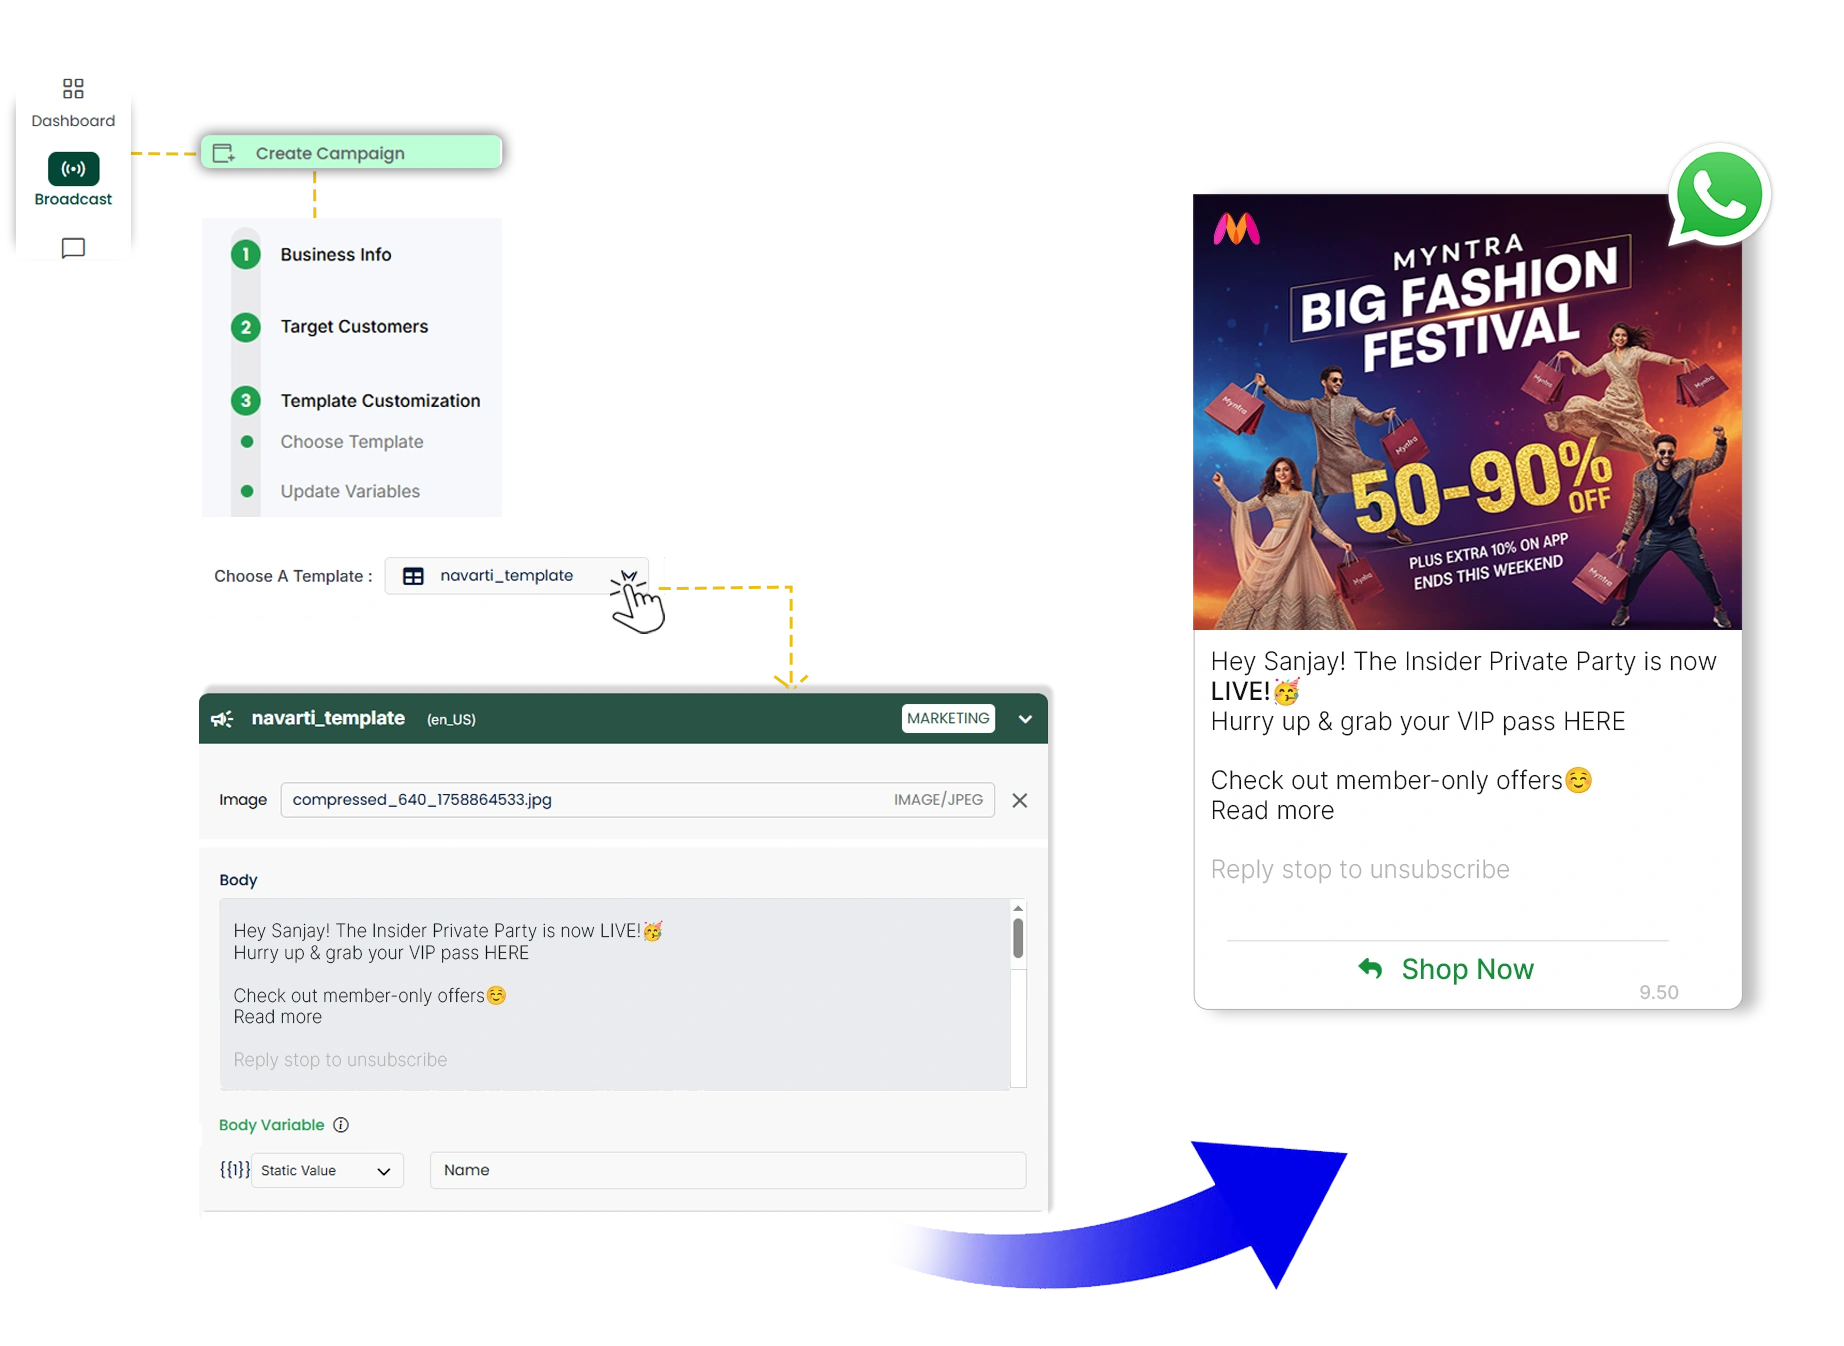
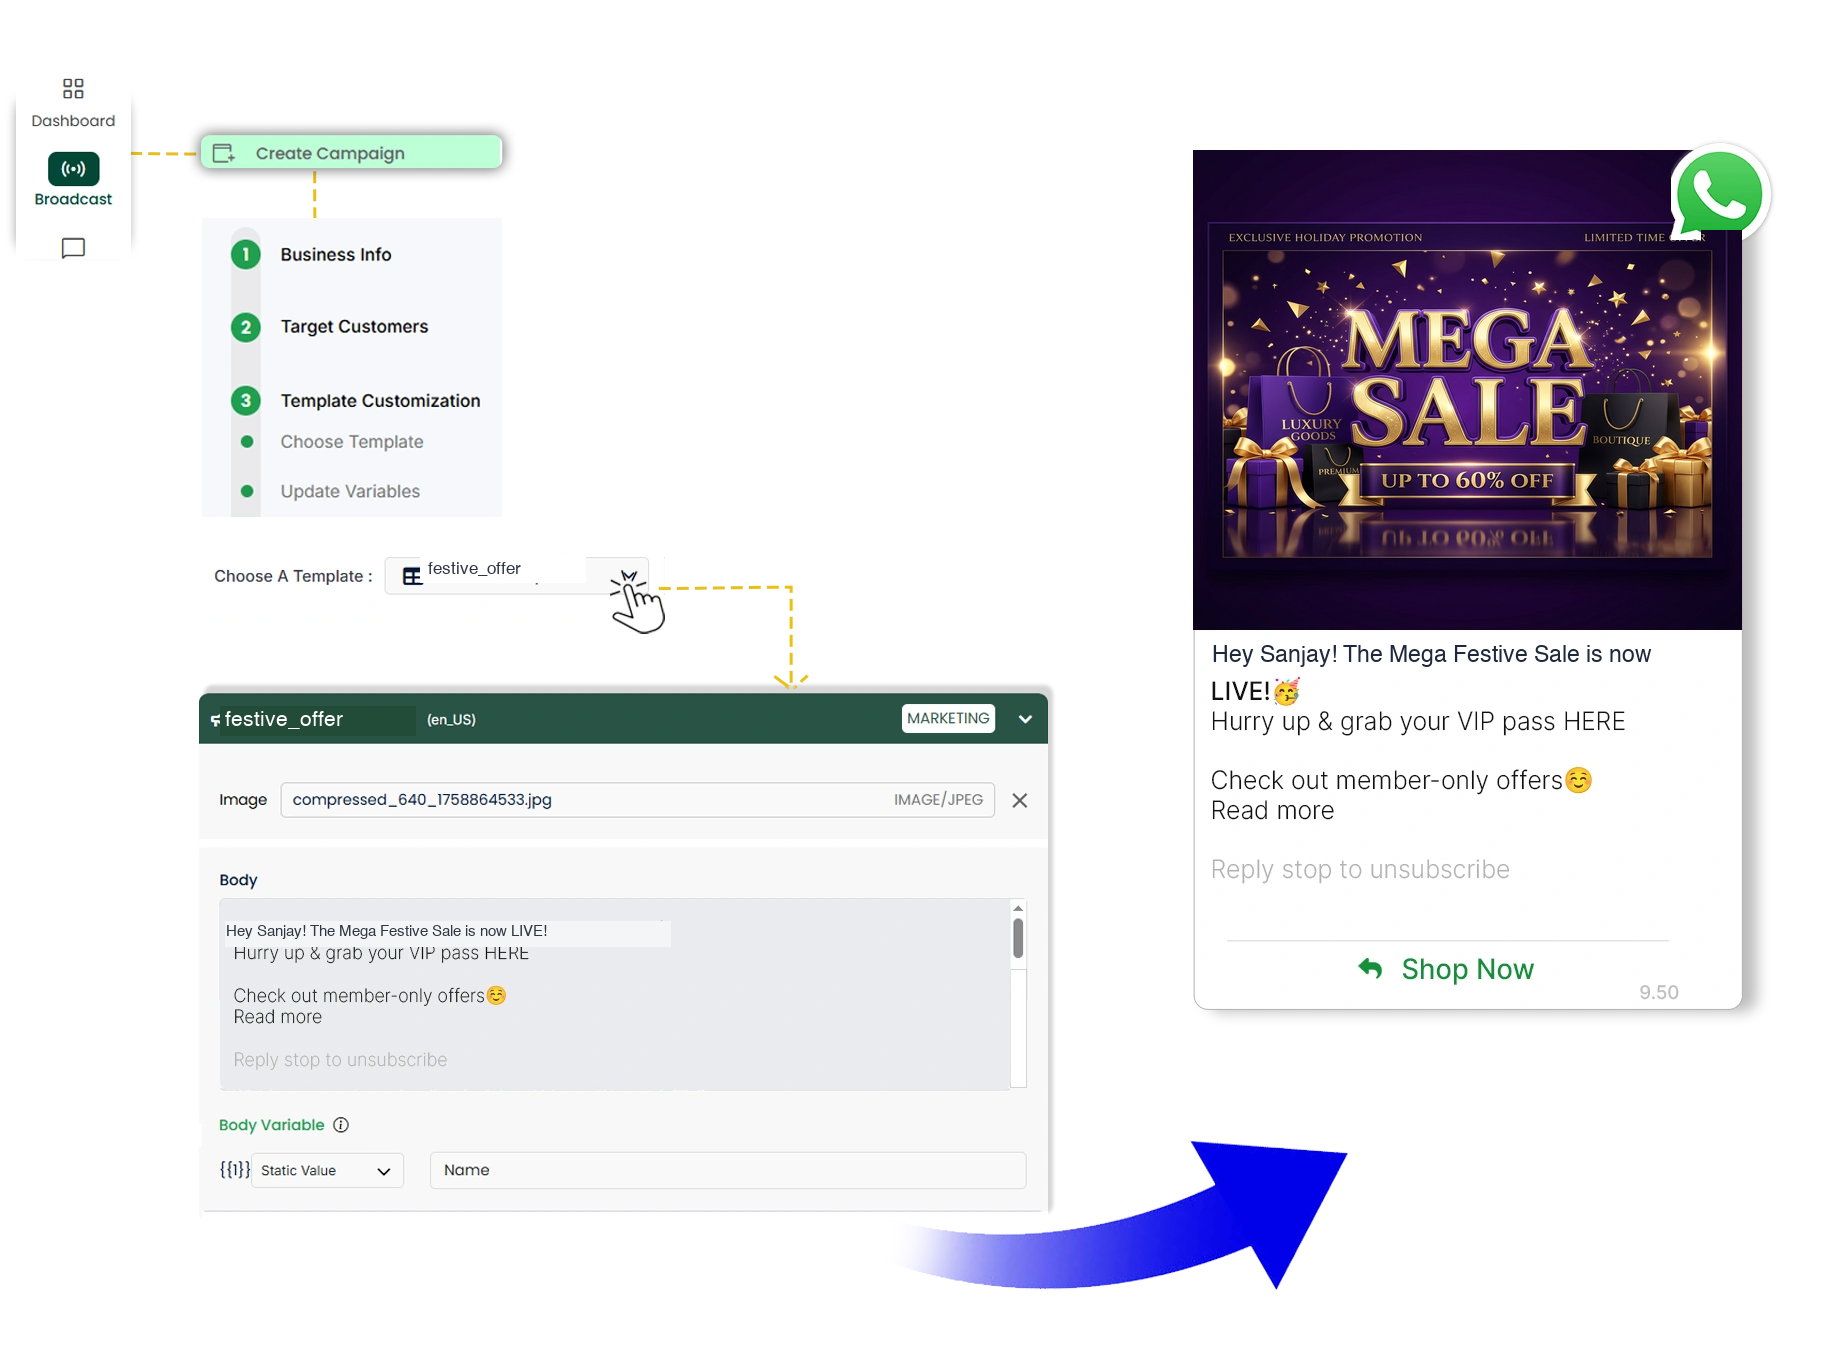
feat(broadcast): rebrand broadcast hero, templates, and copy with original HelloBotz assets

diff --git a/products/broadcast/index.php b/products/broadcast/index.php
@@ -3,11 +3,11 @@ $basePath = '../../';
 $bp = '../../';
 require_once __DIR__ . '/../../config/cms.php';
 
-$pageTitle = 'Send Bulk WhatsApp Broadcasts | Official Meta API | HelloBotz's;
+$pageTitle = 'Send Bulk WhatsApp Broadcasts | Official Meta API | HelloBotz';
 $pageDescription = 'Broadcast personalized offers, updates, and announcements in bulk to unlimited contacts on WhatsApp with zero ban risk using HelloBotz.';
 $canonicalUrl = 'https://hellobotz.com/products/broadcast/';
 $ogImage = 'https://hellobotz.com/assets/images/hellobots/whatsapp-broadcasting/whatsapp-broadcasting.png';
-$ogTitle = 'Send Bulk WhatsApp Broadcasts | Official Meta API | HelloBotz's;
+$ogTitle = 'Send Bulk WhatsApp Broadcasts | Official Meta API | HelloBotz';
 $ogDescription = 'Broadcast personalized offers, updates, and announcements in bulk to unlimited contacts on WhatsApp with zero ban risk using HelloBotz.';
 
 include __DIR__ . '/../../includes/header.php';
@@ -248,8 +248,8 @@ include __DIR__ . '/../../includes/header.php';
 
         <!-- End Breadcrumbs -->
 
-        <h1 class="hero-title">Send Bulk Broadcast to Your Customers on WhatsApp Using Official Business API</h1>
-        <p class="hero-text"> Broadcast personalized updates, offers, and announcements instantly to thousands of contacts on WhatsApp with just one click using offcial business API.</p>
+        <h1 class="hero-title">Send Bulk WhatsApp Broadcasts at Scale with Official Meta API</h1>
+        <p class="hero-text">Broadcast high-converting personalized campaigns, product launches, and automated alerts to thousands of opted-in customers with guaranteed instant delivery and zero ban risk.</p>
         <div class="product-hero-actions" style="display:flex;flex-wrap:wrap;gap:12px;align-items:center;margin-top:1.5rem;">
           <a href="https://app.hellobotz.com/auth/register" class="btn text-white cta-button m-0" style="background:#4f46e5;color:#ffffff;font-weight:700;padding:12px 24px;border-radius:10px;text-decoration:none;display:inline-flex;align-items:center;gap:6px;box-shadow:0 4px 14px rgba(79,70,229,0.35);">
             Start Free Trial →
@@ -290,10 +290,8 @@ include __DIR__ . '/../../includes/header.php';
       <!-- Text -->
       <div class="col-lg-6 order-1 order-lg-2">
         <div class="api-content">
-          <h3> Unlimited Contacts
-          </h3>
-          <p class="mb-3">Send messages to an unlimited number of audiences without any limitations. Reach hundreds or
-            thousands of clients simultaneously, while saving time and maximizing your campaign reach.
+          <h3>Unlimited Audience Reach</h3>
+          <p class="mb-3">Broadcast tailored campaigns to thousands of contacts simultaneously without restrictive limits. Expand your audience segments and save hours while preserving pristine phone number reputation.
           </p>
         </div>
         <a id="whatsapp-enquiryy"
@@ -314,11 +312,8 @@ include __DIR__ . '/../../includes/header.php';
       <!-- Text -->
       <div class="col-lg-6 order-1 order-lg-1">
         <div class="api-content">
-          <h3>Pre-Approved Message Template
-          </h3>
-          <p class="mb-3">Utilize your pre-approved templates to make sure your broadcast is delivered in real-time and
-            complies with WhatsApp’s policies. You can even personalize them using variables for different campaigns,
-            making the conversation more instant and stable.
+          <h3>Meta-Approved Dynamic Templates</h3>
+          <p class="mb-3">Deploy pre-approved WhatsApp message templates that comply with Meta business policies. Seamlessly inject recipient variables, rich media, and quick-reply action buttons for instant conversions.
           </p>
         </div>
         <a id="whatsapp-enquiryy"
@@ -339,11 +334,8 @@ include __DIR__ . '/../../includes/header.php';
       <!-- Text -->
       <div class="col-lg-6 order-1 order-lg-2">
         <div class="api-content">
-          <h3> Message Personalization
-          </h3>
-          <p class="mb-3">Include dynamic variables like customer name, locations, or buying history to make every
-            broadcast unique. Customization improves engagement and builds customer relationships, even in large-scale
-            campaigns.
+          <h3>1:1 Dynamic Personalization</h3>
+          <p class="mb-3">Deliver tailored messages by dynamically inserting customer names, personalized discount codes, order values, and account details to drive maximum engagement, trust, and higher conversions.
           </p>
         </div>
         <a id="whatsapp-enquiryy"
@@ -364,10 +356,8 @@ include __DIR__ . '/../../includes/header.php';
       <!-- Text -->
       <div class="col-lg-6 order-1 order-lg-1">
         <div class="api-content">
-          <h3>Interactive Messages
-          </h3>
-          <p class="mb-3">Offer a rich experience by sending messages that include images, videos, and interactive
-            buttons. Such features make your campaigns more appealing and encourage higher click-through rates.
+          <h3>Interactive Media & Quick Action CTAs</h3>
+          <p class="mb-3">Elevate response rates with high-resolution imagery, promotional videos, PDF catalogs, and clickable CTAs (Call Now, Visit Website, or Quick Reply) right within WhatsApp.
           </p>
         </div>
         <a id="whatsapp-enquiryy"
@@ -388,11 +378,8 @@ include __DIR__ . '/../../includes/header.php';
       <!-- Text -->
       <div class="col-lg-6 order-1 order-lg-2">
         <div class="api-content">
-          <h3>Campaign Scheduling
-          </h3>
-          <p class="mb-3">Plan and schedule the broadcast in advance to deliver messages on time. Whether it's reaching
-            customers in different time zones or launching time-sensitive offers, scheduling guarantees maximum
-            visibility and effect.
+          <h3>Precision Campaign Scheduling</h3>
+          <p class="mb-3">Schedule your broadcast drops across time zones and peak buying hours. Automate seasonal promotions and time-sensitive flash sales with automated delivery controls for maximum visibility.
           </p>
         </div>
         <a id="whatsapp-enquiryy"
@@ -414,11 +401,8 @@ include __DIR__ . '/../../includes/header.php';
       <!-- Text -->
       <div class="col-lg-6 order-1 order-lg-1">
         <div class="api-content">
-          <h3>Retargeting Campaigns
-          </h3>
-          <p class="mb-3">Re-engage with clients who responded to your earlier broadcasts. Retargeting enables you to
-            send follow-up messages based on customer interest, resulting in better conversion and strengthening
-            customer relationships.
+          <h3>Smart Behavioral Retargeting</h3>
+          <p class="mb-3">Automatically segment and re-target contacts who opened, replied, or tapped specific buttons in previous broadcasts to guide them seamlessly through your sales funnel.
           </p>
         </div>
         <a id="whatsapp-enquiryy"
@@ -439,9 +423,8 @@ include __DIR__ . '/../../includes/header.php';
       <!-- Text -->
       <div class="col-lg-6 order-1 order-lg-2">
         <div class="api-content">
-          <h3>Auto Retry Failed Messages
-          </h3>
-          <p class="mb-3">Achieve maximum delivery by automatically resending failed messages. It enhances your delivery rate, minimizes missed opportunities, and ensures that your broadcast reaches a wide audience.
+          <h3>Intelligent Delivery Auto-Retry</h3>
+          <p class="mb-3">Ensure highest message completion with automatic retries for contacts temporarily unreachable or with intermittent network connectivity, boosting campaign delivery and ROI.
           </p>
         </div>
         <a id="whatsapp-enquiryy"
@@ -454,7 +437,7 @@ include __DIR__ . '/../../includes/header.php';
       <div class="col-lg-6 order-2 order-lg-1 text-center">
         <div class="api-image-box">
           <img src="/assets/images/hellobots/whatsapp-broadcasting/Auto-Retry-for-Failed-Messages.png"
-            alt="Retargeting Campaigns" class="api-image img-fluid rounded">
+            alt="Auto Retry for Failed Messages" class="api-image img-fluid rounded">
         </div>
       </div>
     </div>
@@ -462,12 +445,8 @@ include __DIR__ . '/../../includes/header.php';
       <!-- Text -->
       <div class="col-lg-6 order-1 order-lg-1">
         <div class="api-content">
-          <h3> Real-Time Analytics
-          </h3>
-          <p class="mb-3">Keep track of your campaign with real-time monitoring of message delivery rate, read receipts,
-            and click-through rate. Real-time analytics makes it easier to understand customer behaviour and helps you
-            optimize your broadcasts for better outcomes.
-
+          <h3>Live Campaign Telemetry & ROI Analytics</h3>
+          <p class="mb-3">Track real-time sent, delivered, read, and response metrics on an intuitive dashboard. Uncover audience engagement trends to continuously optimize campaign performance and conversions.
           </p>
         </div>
         <a id="whatsapp-enquiryy"
